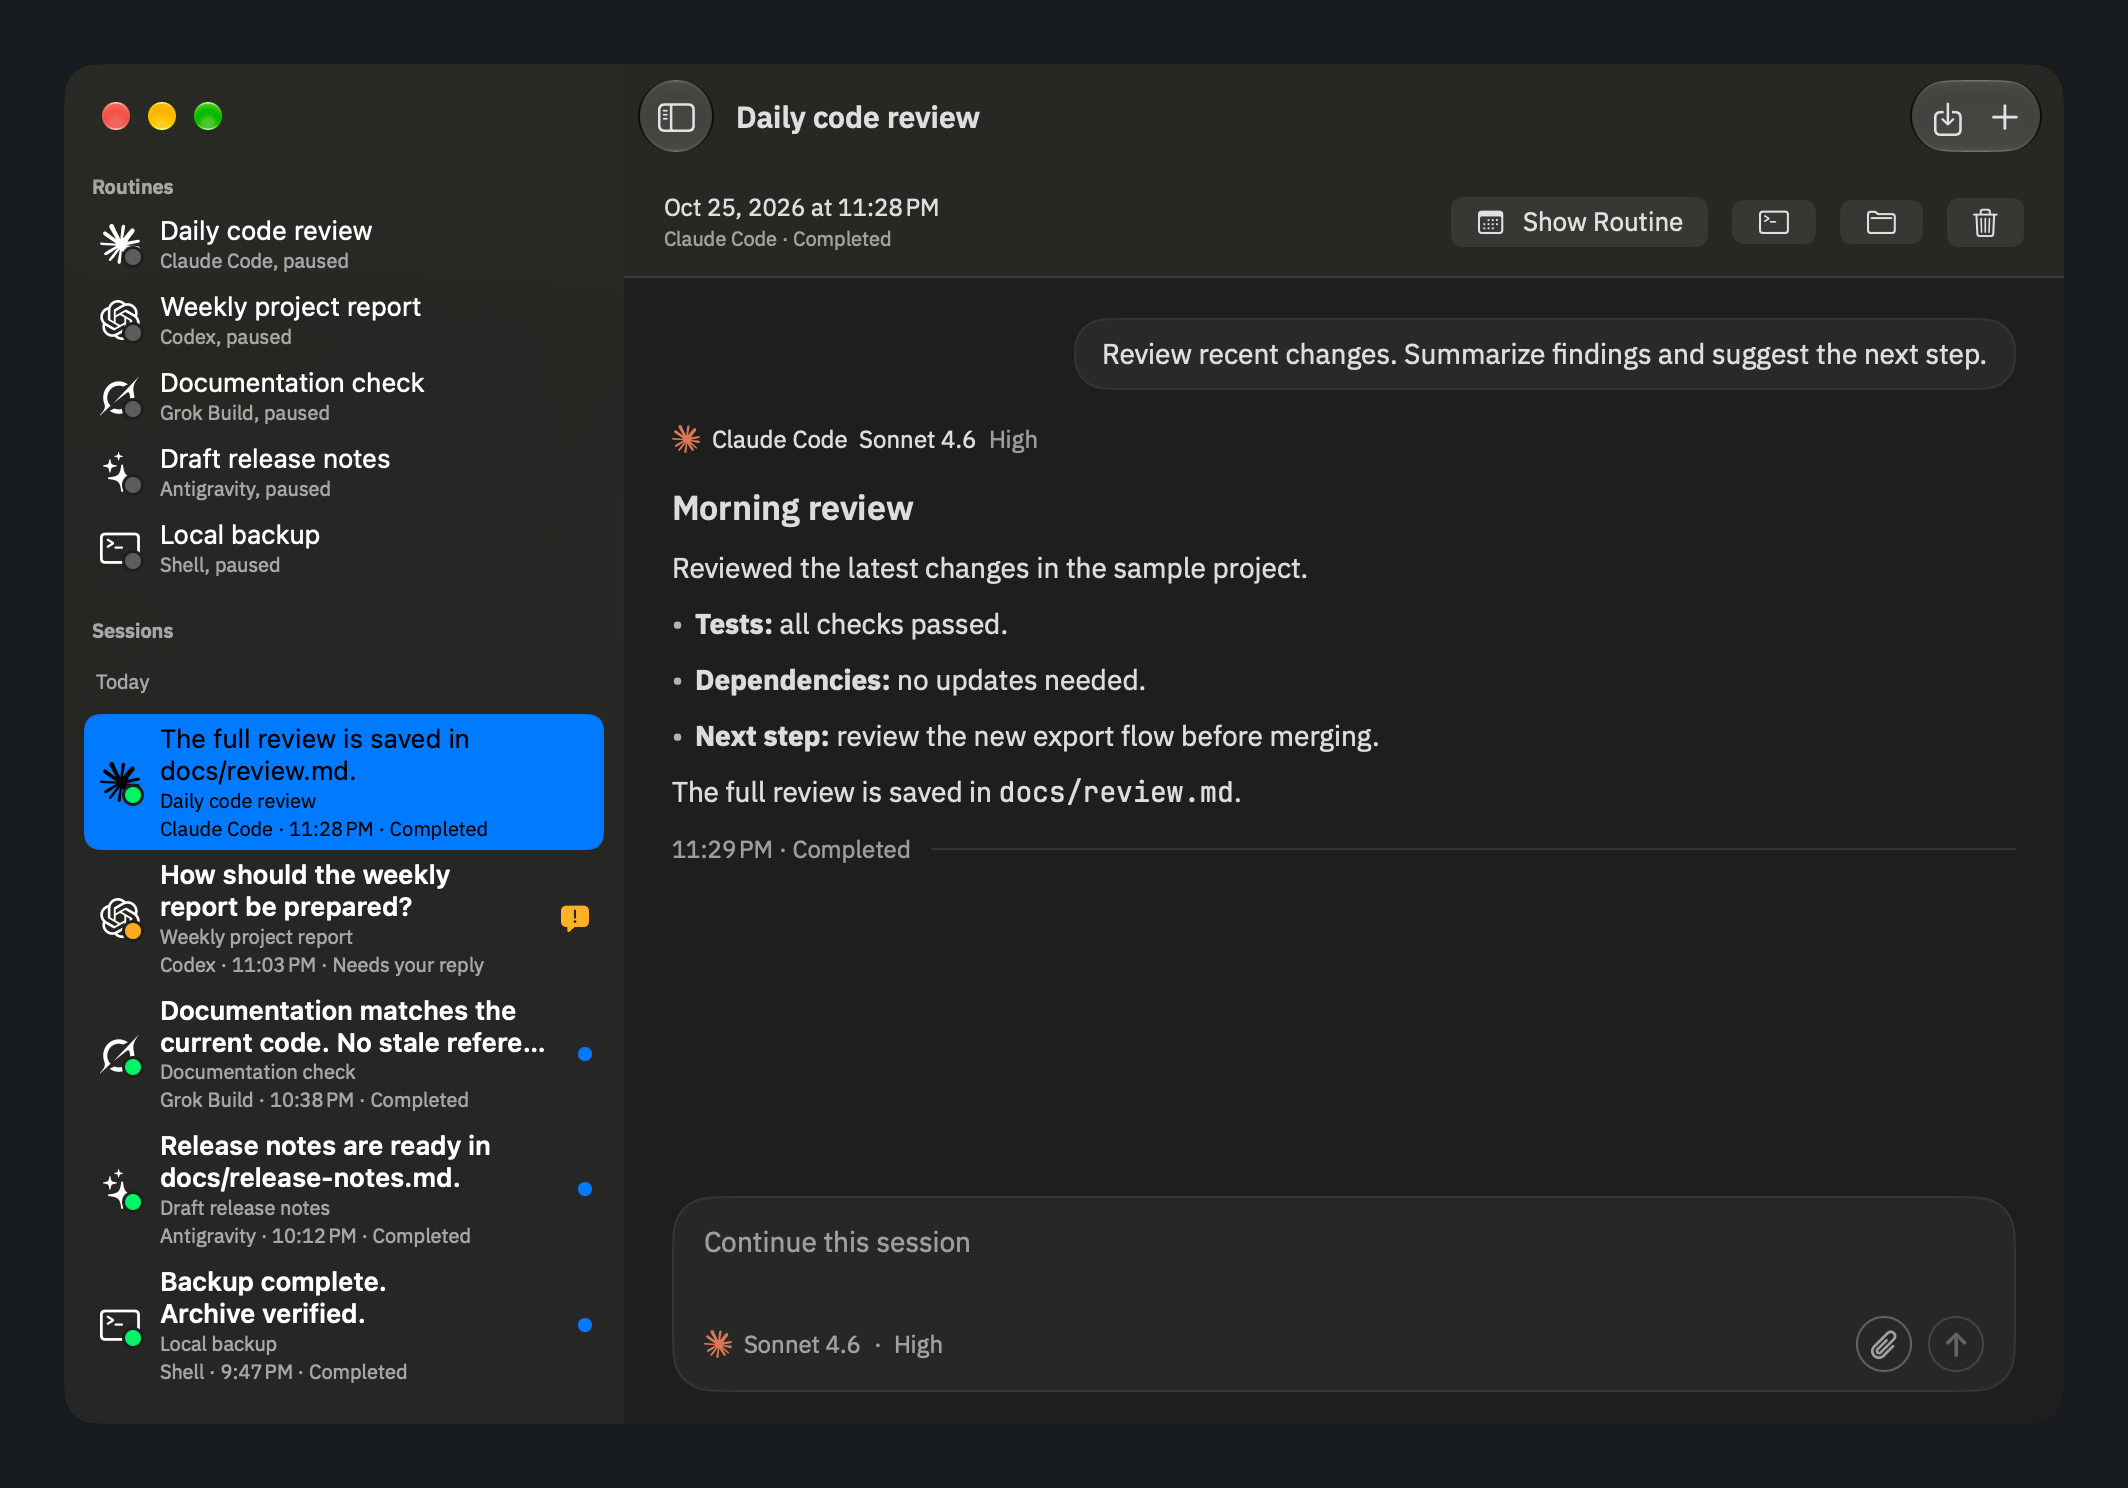
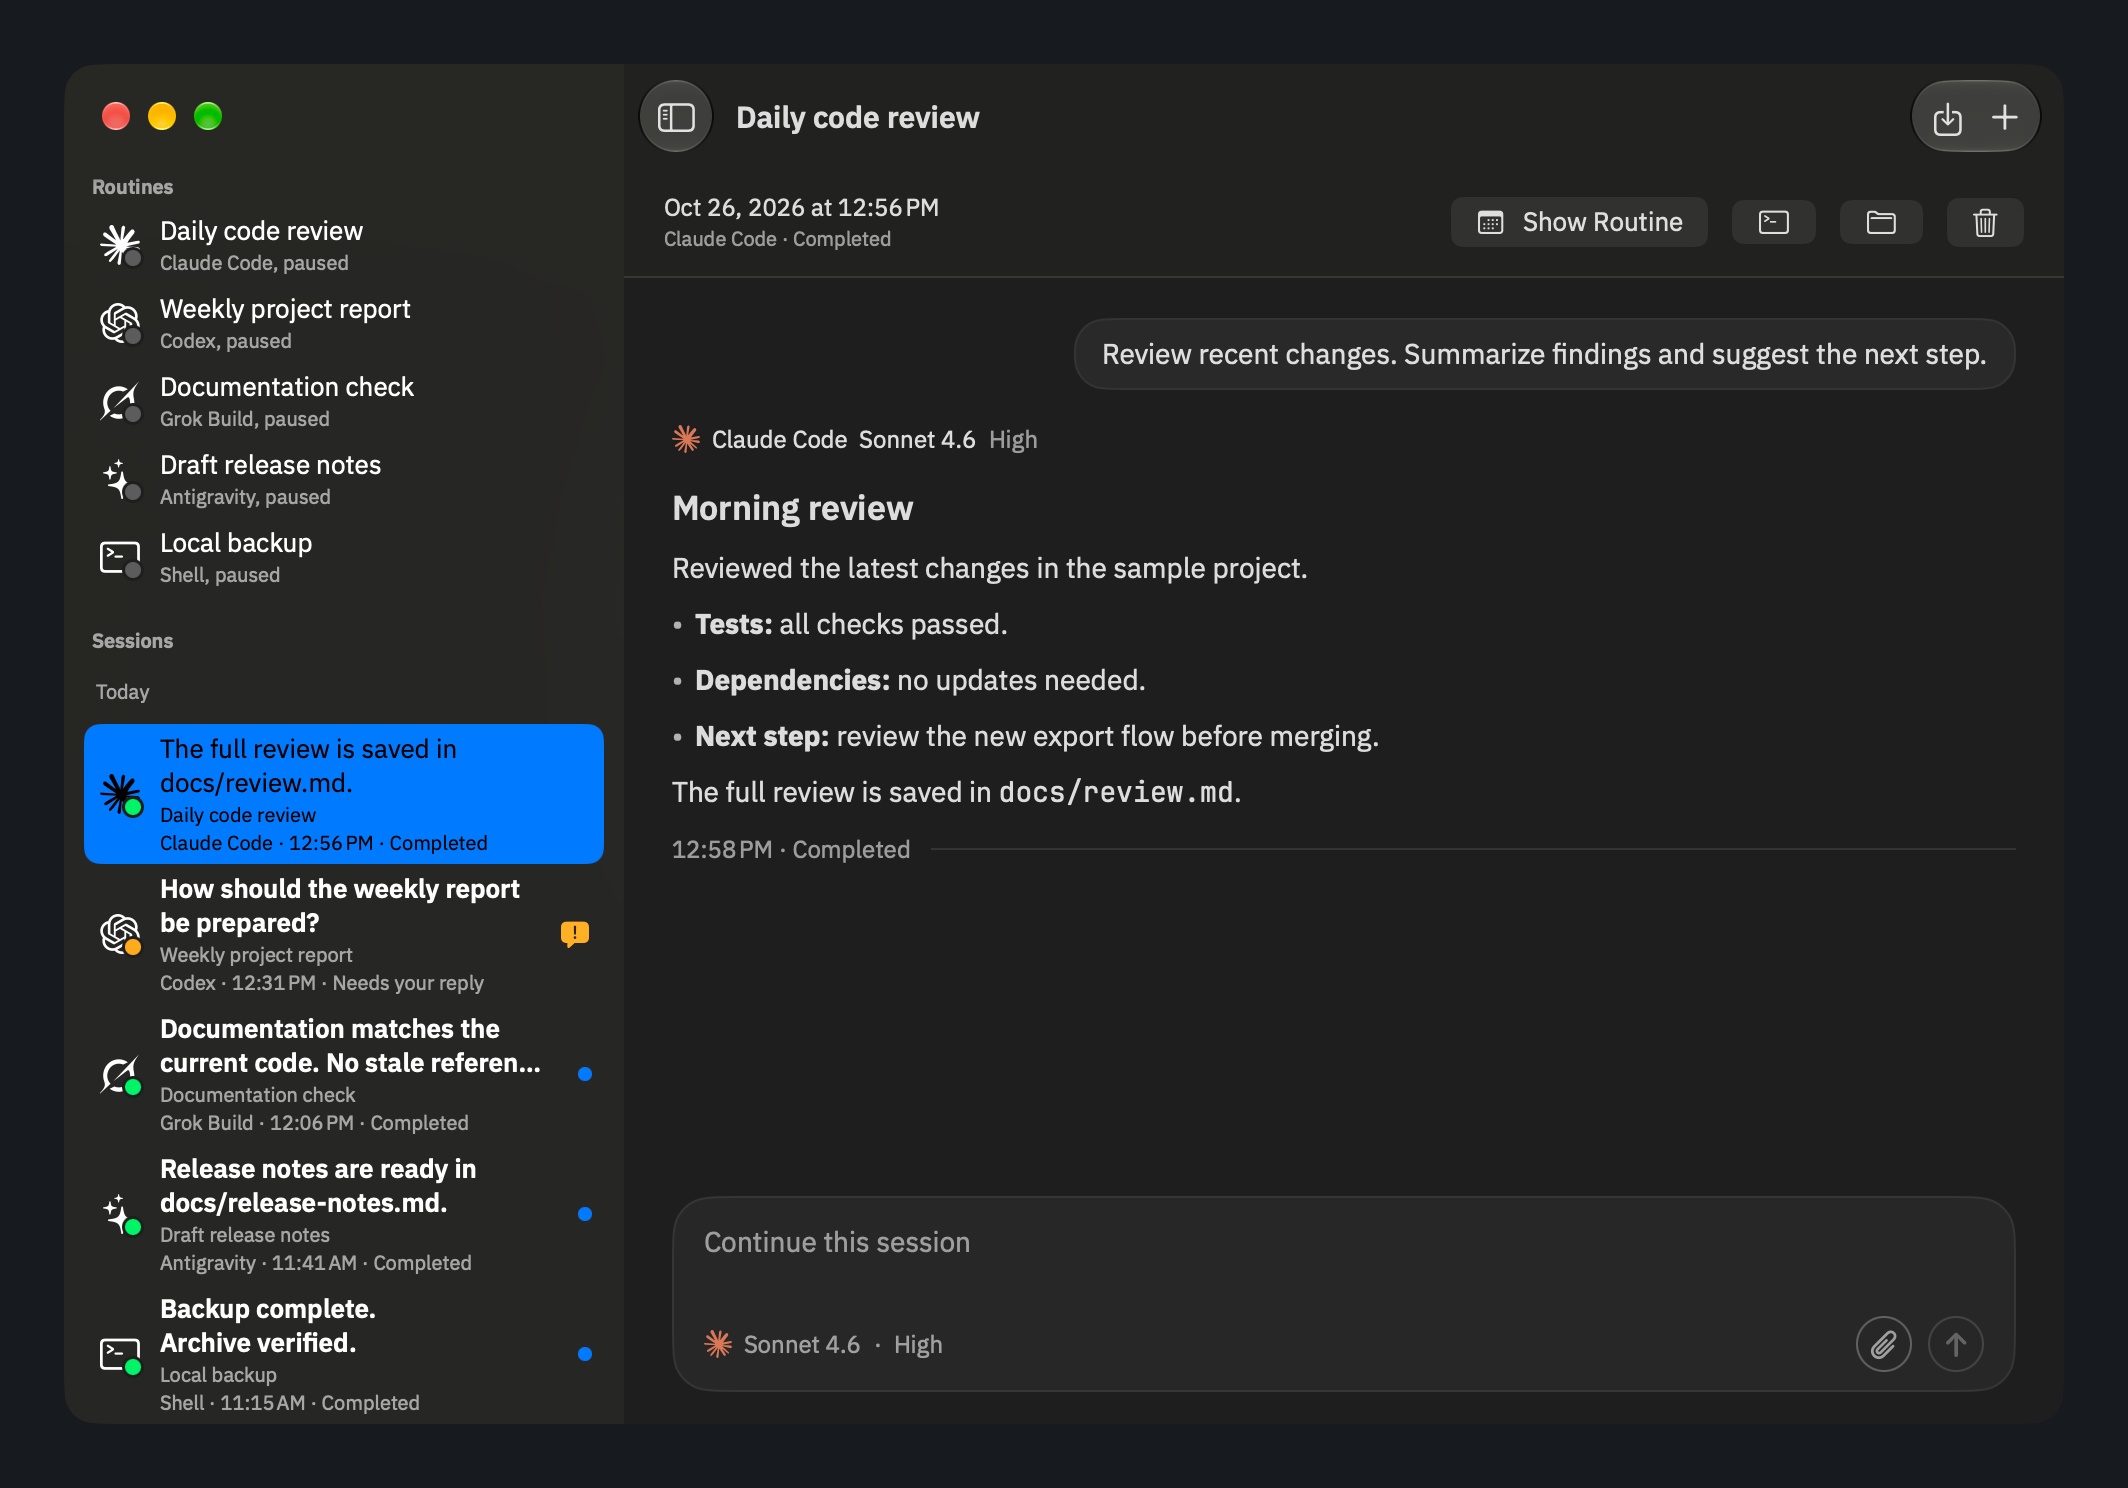
Fix sidebar font scaling and refresh app screenshots

Changed region(s): [[0.031, 0.1546, 0.2791, 0.9583], [0.4032, 0.1237, 0.4342, 0.1546]]

diff --git a/Sources/Rota/MainWindow.swift b/Sources/Rota/MainWindow.swift
@@ -223,7 +223,8 @@ private struct RoutineRow: View {
             }
             VStack(alignment: .leading, spacing: metrics.points(1)) {
                 // Explicit, so an inactive window does not dim the name below its caption.
-                Text(routine.name).lineLimit(1).foregroundStyle(SidebarText.primary(onAccent: onAccent))
+                Text(routine.name).interfaceFont(.body)
+                    .lineLimit(1).foregroundStyle(SidebarText.primary(onAccent: onAccent))
                 TimelineView(.periodic(from: .now, by: 30)) { _ in
                     Text(NextRunFormat.subtitle(routine, running: model.scheduler.active[routine.id] != nil))
                         .interfaceFont(.caption)
@@ -328,6 +329,7 @@ private struct SessionRow: View {
             }
             VStack(alignment: .leading, spacing: metrics.points(1)) {
                 Text(verbatim: SessionPreview.text(for: record, snapshot: snapshot))
+                    .interfaceFont(.body)
                     .fontWeight(record.isUnread ? .semibold : .regular)
                     // Explicit, so an inactive window does not dim the preview below its captions.
                     .foregroundStyle(SidebarText.primary(onAccent: onAccent))

diff --git a/docs/architecture.md b/docs/architecture.md
@@ -646,6 +646,10 @@ Multi-line labels stay in an explicit leading-aligned stack so the whole label
 block, rather than its first line, aligns with the control.
 Native button labels
 also receive an explicit scaled font. Menu items keep the system font.
+Sidebar routine names and session previews apply `interfaceFont(.body)` directly
+to their `Text`: the font inherited from the row wrapper does not reliably reach
+the primary label in a native sidebar list. Verify the rendered font family and
+size when checking zoom, not only the row's geometry.
 Chat typography multiplies its base dimensions by both the chat text scale and
 the same observable interface scale without rewriting either preference. No layer, bitmap or view
 transform enlarges an already rendered interface. Every hosted root, including
